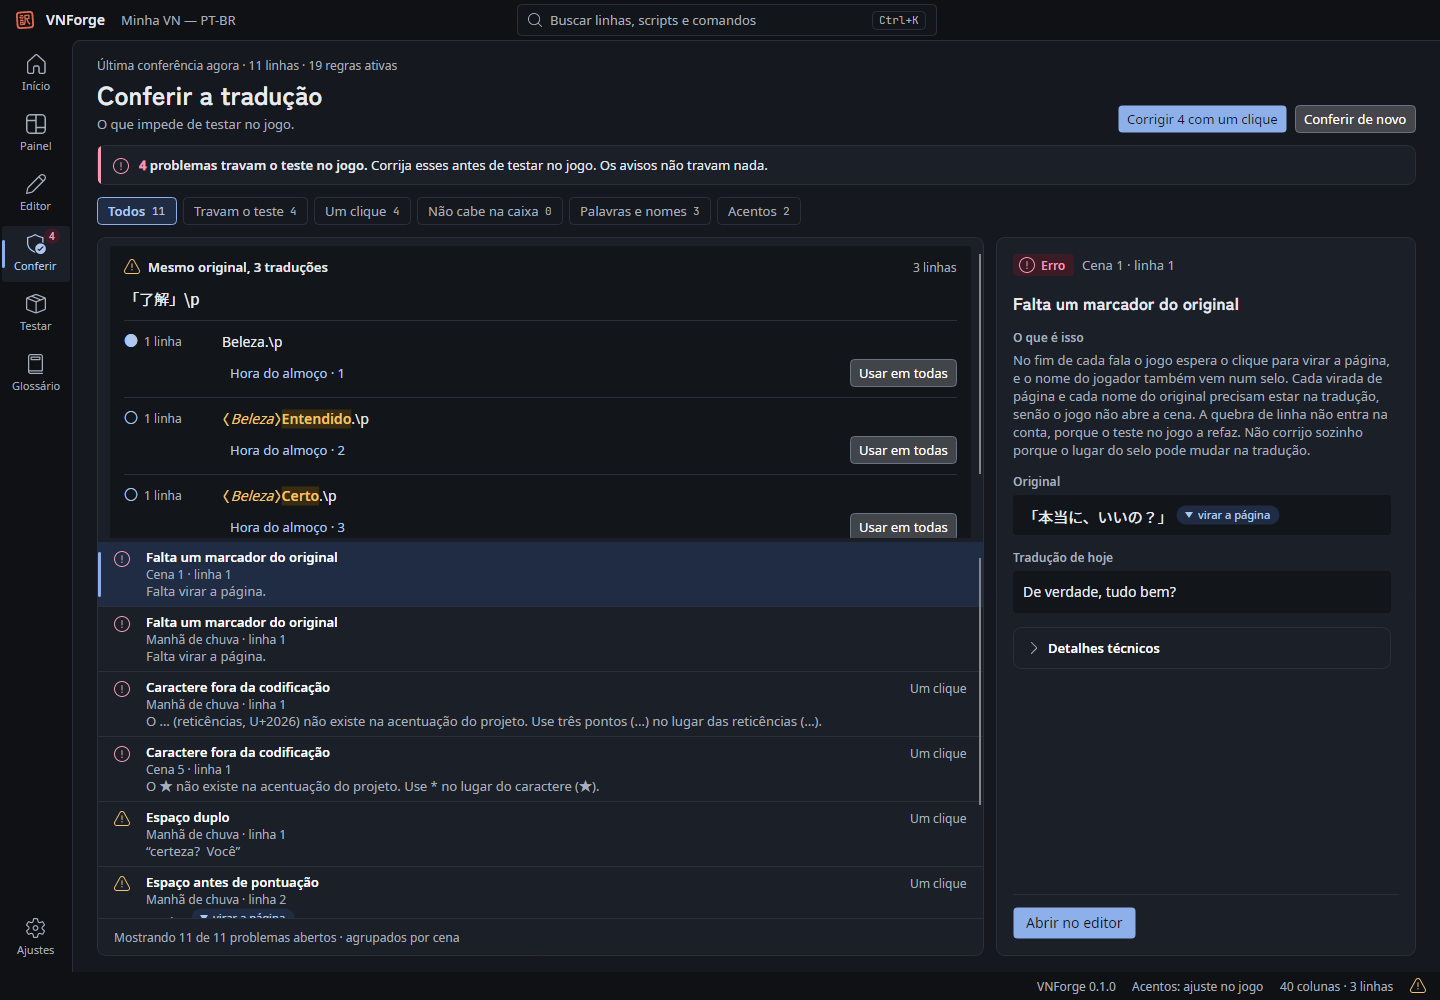
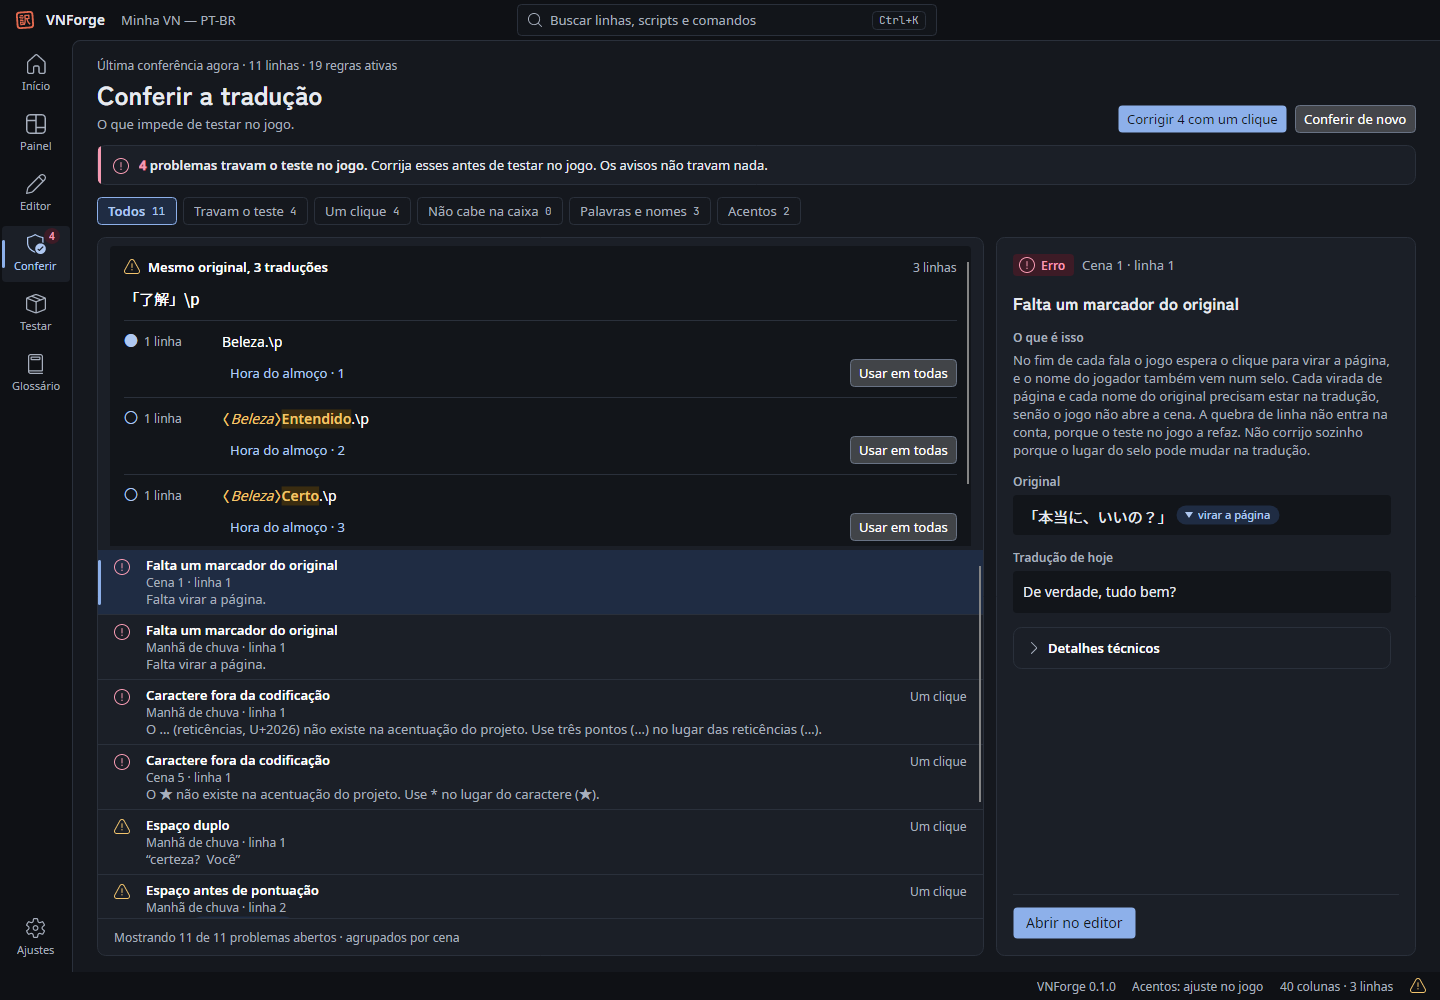
fix: Cartões virtualizados, Desfazer recarrega o Editor e manter diferentes não conta como aviso marcado (#455)

diff --git a/tests/VNForge.App.Tests/ConferenceConsistencyTests.cs b/tests/VNForge.App.Tests/ConferenceConsistencyTests.cs
@@ -222,14 +222,39 @@ public class ConferenceConsistencyTests
     }
 
     [Fact]
-    public async Task Os_botoes_do_cartao_nao_sao_de_destaque_e_a_tela_tem_um_de_destaque_so()
+    public async Task Os_rotulos_do_cartao_sao_os_da_issue()
     {
         using var temp = new TempFolder();
         var (vm, _) = await Loaded(temp);
 
-        // "Usar em todas" e "Manter diferentes" ficam nas classes comuns: o destaque é do cabeçalho (Conferir de novo / Corrigir N).
-        Assert.True(vm.RefreshIsPrimary != vm.HasFixable);
         Assert.Equal("Usar em todas", vm.ConsistencyCards.Single().Variants[0].UseLabel);
         Assert.Equal("Manter diferentes de propósito", vm.ConsistencyCards.Single().KeepLabel);
+    }
+
+    [Fact]
+    public async Task Sem_a_regra_no_motor_nao_ha_cartao_e_as_outras_linhas_seguem_na_lista()
+    {
+        using var temp = new TempFolder();
+        var root = SampleProjects.Create(temp.SubFolder("vn"), "Minha VN", TranslationStatus.Approved);
+        ProjectFolder.Open(root).SaveText("yst00001", [Line("yst00001", 0, "a  b"), Line("yst00001", 1, "c")]);
+        var vm = new ConferenceViewModel(new QaEngine([new DoubleSpaceRule()])) { Project = ProjectSummaryReader.Read(root) };
+
+        await vm.RefreshAsync();
+
+        Assert.Empty(vm.ConsistencyCards);
+        Assert.Contains(vm.Rows, r => r.RuleId == "espaco-duplo");
+    }
+
+    [Fact]
+    public async Task Manter_diferentes_nao_conta_como_aviso_marcado_como_certo()
+    {
+        using var temp = new TempFolder();
+        var (vm, _) = await Loaded(temp);
+
+        await vm.KeepDifferentCommand.ExecuteAsync(vm.ConsistencyCards.Single());
+        var afterKeep = vm.SilencedSummary;
+        await vm.RefreshAsync();
+
+        Assert.Equal(afterKeep, vm.SilencedSummary);
     }
 }

diff --git a/tests/VNForge.App.Tests/Rendering/ConferenceRenderTests.cs b/tests/VNForge.App.Tests/Rendering/ConferenceRenderTests.cs
@@ -61,6 +61,12 @@ public sealed class ConferenceRenderTests(HeadlessFixture fixture) : IClassFixtu
                     AssertBlockingBanner(window, view, vm.Conference, theme);
                     AssertSceneNamesAndChips(view);
 
+                    // O cartão de "mesmo original": as duas ações não são o botão de destaque (esse é um por tela, no cabeçalho).
+                    var cardButtons = view.GetVisualDescendants().OfType<Button>()
+                        .Where(b => b.IsEffectivelyVisible && (b.Command == vm.Conference.UseVariantCommand || b.Command == vm.Conference.KeepDifferentCommand)).ToList();
+                    Assert.True(cardButtons.Count >= 4, "o cartão mostra Usar em todas por variante e Manter diferentes");
+                    Assert.All(cardButtons, b => Assert.DoesNotContain("accent", b.Classes));
+
                     // Erro sem correção automática: só "Abrir no editor", em destaque, na barra do pé do painel.
                     var open = ActionButton(view, vm.Conference.OpenLineCommand);
                     Assert.Contains("accent", open.Classes);

diff --git a/src/VNForge.App/ViewModels/ConferenceViewModel.cs b/src/VNForge.App/ViewModels/ConferenceViewModel.cs
@@ -811,7 +811,8 @@ public sealed partial class ConferenceViewModel : ObservableObject
             }
 
             var gone = card.Rows.Select(r => r.Issue).ToHashSet(ReferenceEqualityComparer.Instance);
-            report = new QaReport([.. report.Issues.Where(i => !gone.Contains(i))], [.. report.Silenced, .. report.Issues.Where(gone.Contains)], report.RulesRun);
+            // O grupo mantido não entra em Silenced: a regra deixa de apontá-lo, então uma releitura também não o contaria.
+            report = new QaReport([.. report.Issues.Where(i => !gone.Contains(i))], report.Silenced, report.RulesRun);
             all = [.. all.Where(r => !card.Rows.Contains(r))];
             allConsistency = [.. allConsistency.Where(c => !ReferenceEquals(c, card))];
             Rebuild();

diff --git a/src/VNForge.App/ViewModels/MainWindowViewModel.cs b/src/VNForge.App/ViewModels/MainWindowViewModel.cs
@@ -467,6 +467,14 @@ public sealed partial class MainWindowViewModel : ObservableObject
         if (!await Conference.UndoAsync(saved))
         {
             Toasts.Show(Conference.ErrorMessage ?? "Não foi possível desfazer a gravação das linhas.", ToastKind.Error, key: "line-undo");
+            return;
+        }
+
+        // Com o Editor à vista, só marcar como defasado não basta: a grade continuaria mostrando as traduções desfeitas.
+        if (ReferenceEquals(CurrentPage, Editor))
+        {
+            editorStale = false;
+            Editor.Reload();
         }
     }
 
